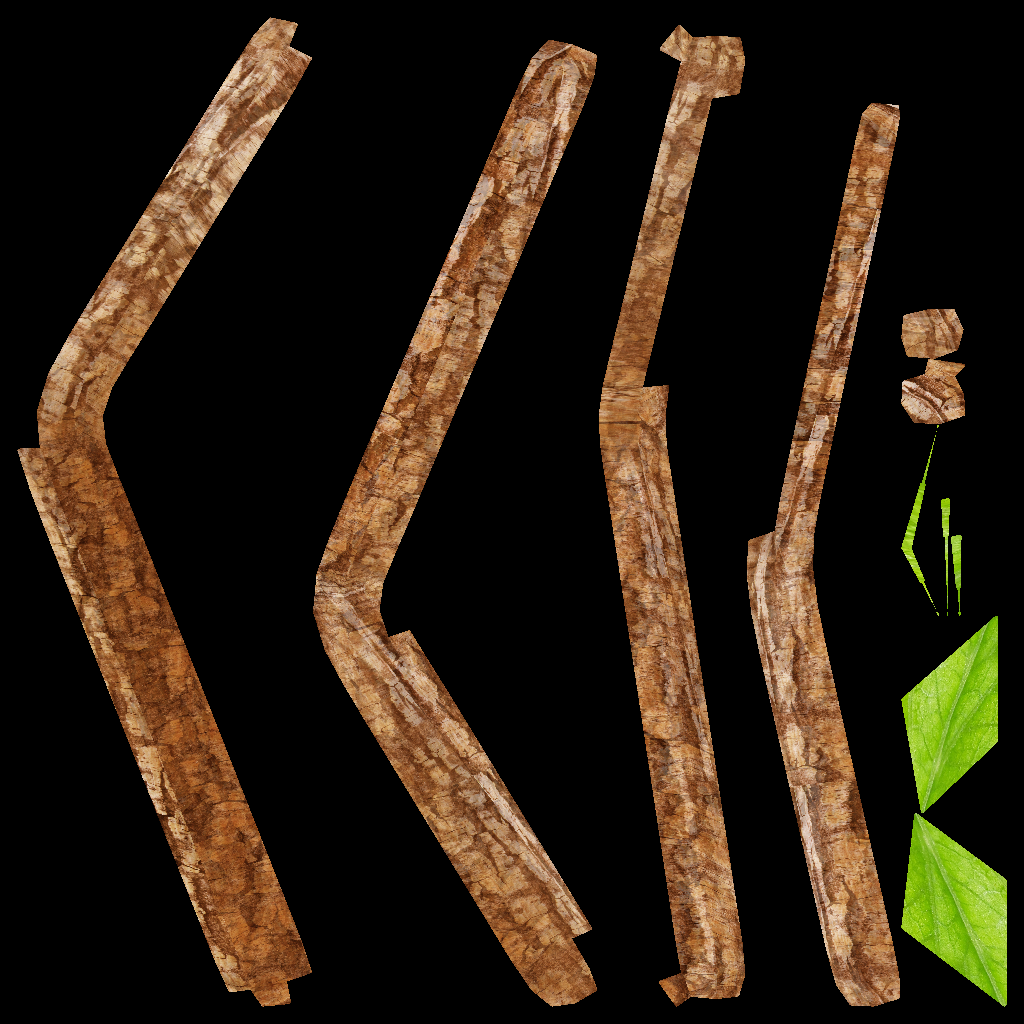
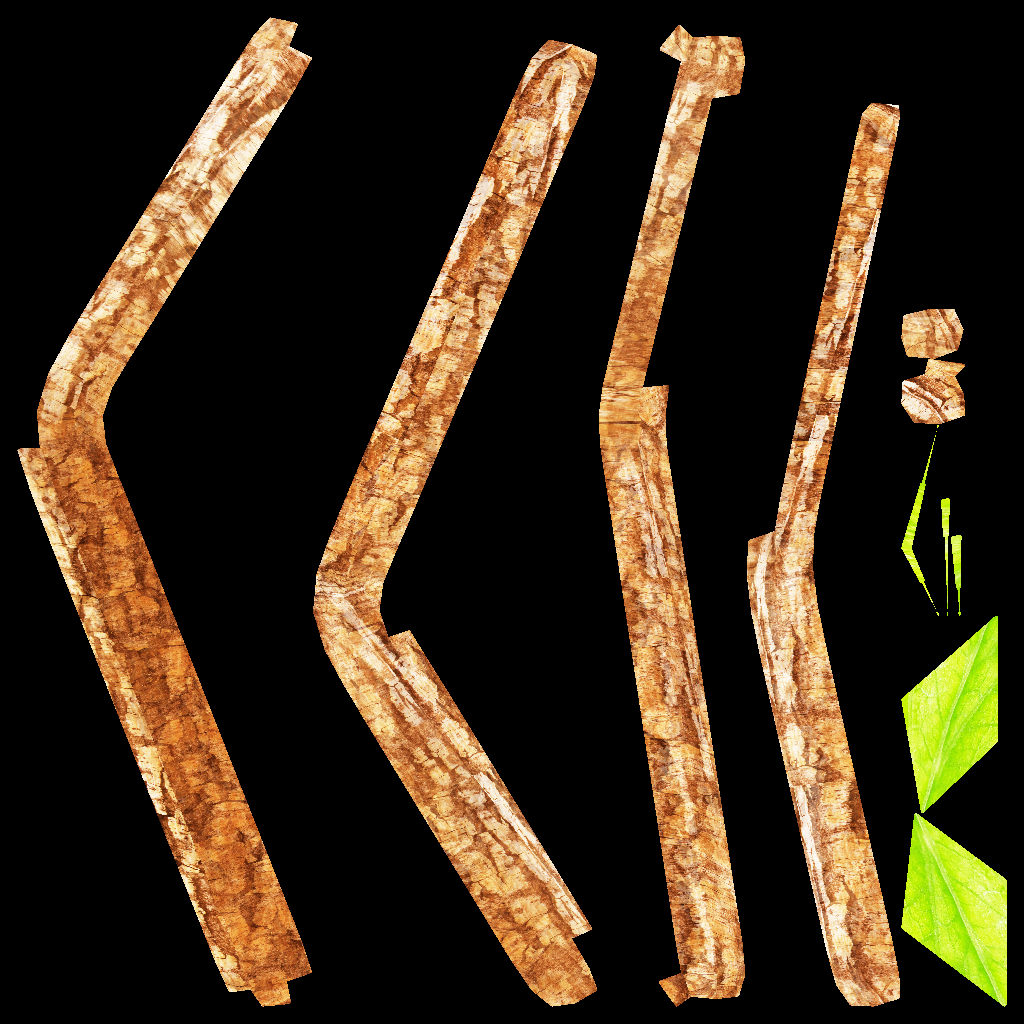
more explosions and some exposure finetuning

diff --git a/multiSceneEffects/EffectExplosion.js b/multiSceneEffects/EffectExplosion.js
@@ -1,4 +1,4 @@
-Demo.prototype.addEffectExplosion = function (particleTexture, startTime, duration, maxDist, amount, posX, posY, posZ, xStartDim, yStartDim, zStartDim, xDim = 0.1, yDim =0.1, zDim = 0.0, xOffset, yOffset, zOffset, blendingMode = "CustomBlending", parentId = "scene") {
+Demo.prototype.addEffectExplosion = function (particleTexture, particleModel, startTime, duration, maxDist, amount, posX, posY, posZ, xStartDim, yStartDim, zStartDim, xDim = 0.1, yDim =0.1, zDim = 0.0, xOffset, yOffset, zOffset, blendingMode = "CustomBlending", parentId = "scene") {
 
   let particles = new Array(amount);
   for (let i = 0; i < particles.length; i++) {
@@ -22,7 +22,7 @@ Demo.prototype.addEffectExplosion = function (particleTexture, startTime, durati
   }
 
 
-  this.loader.addAnimation({
+  let explosionAnimation = {
     "parent": (parentId==="scene") ? undefined:parentId,
     "start": startTime, "duration": duration,
     "image": particleTexture,
@@ -59,5 +59,7 @@ Demo.prototype.addEffectExplosion = function (particleTexture, startTime, durati
         color.b = color.a;
         }
       }
-  });
+    }
+
+  this.loader.addAnimation(explosionAnimation);
 }

diff --git a/sceneSpace/Space.js b/sceneSpace/Space.js
@@ -273,7 +273,9 @@ Demo.prototype.addEffectPlanetExplosion = function (startTime,duration, planetId
         ,"angle": [{"degreesY":i2*45+randomAngle,"degreesZ":i2*45+randomAngle,"degreesX":i2*45+randomAngle}]
       });
  
-      this.addEffectExplosion("sceneCatBattle/tex_temp_cat.png",
+      this.addEffectExplosion(
+        "sceneCatBattle/tex_temp_cat.png",
+        null,
         startTime,2,  // startTime, duration
         115, 15,      // maxDist, amount
         0,0,0,        // posX, posY, posZ
@@ -283,7 +285,9 @@ Demo.prototype.addEffectPlanetExplosion = function (startTime,duration, planetId
         "AdditiveBlending", // blendmode
         "null"+i2+planetId);     // parent
 
-        this.addEffectExplosion("sceneCatBattle/tex_temp_cat.png",
+        this.addEffectExplosion(
+          "sceneCatBattle/tex_temp_cat.png",
+          null,
           startTime,2,  // startTime, duration
           115, 15,          // maxDist, amount
           0,0,0,        // posX, posY, posZ          

diff --git a/sceneTree/Tree.js b/sceneTree/Tree.js
@@ -224,6 +224,7 @@ Demo.prototype.sceneTreeGrow = function () {
   this.addSkysphere();
   this.addEffectGrowingTree();
 
+  /*
   this.loader.addAnimation({
     "light": {
         "type": "Directional",
@@ -237,7 +238,7 @@ Demo.prototype.sceneTreeGrow = function () {
       "x": ()=>-window.camPos[0], "y": ()=>window.camPos[1], "z": ()=>-window.camPos[2]
     }]
   });
-
+*/
 
 
   this.loader.addAnimation({
@@ -250,7 +251,7 @@ Demo.prototype.sceneTreeGrow = function () {
       "r": 1.0, "g": 1.0, "b": 1.0
     }]
     ,"position": [{
-      "x": ()=>window.camPos[0], "y": 5, "z": ()=>window.camPos[2]
+      "x": ()=>window.camPos[0], "y": 7, "z": ()=>window.camPos[2]
     }]
   });
 
@@ -264,6 +265,9 @@ Demo.prototype.sceneTreeGrow = function () {
       "x":0,
       "y":0,
       "z":0
+    }]
+    ,"color": [{
+      "r": 1.0, "g": 1.0, "b": 1.0
     }]
    ,"angle":[{
       "degreesY":0,

diff --git a/sceneEarthHit/earthHit.js b/sceneEarthHit/earthHit.js
@@ -11,9 +11,11 @@ Demo.prototype.sceneEarthHit = function () {
      ,"angle": [{"degreesY":0,"degreesZ":-45,"degreesX":0}]
    });
 
-    this.addEffectExplosion("sceneCatBattle/tex_temp_cat.png",
+    this.addEffectExplosion(
+      "sceneCatBattle/tex_temp_cat.png",
+      null,                   // model
       window.biitti*8,4,  // startTime, duration
-      15, 115,      // maxDist, amount
+      15, 66,      // maxDist, amount, scale
       0,0,0,        // posX, posY, posZ
       0,0,0,        // startDim
       .3,.01,0.3,   // dimX, dimY, dimZ

diff --git a/multiSceneEffects/PostProcess.js b/multiSceneEffects/PostProcess.js
@@ -86,7 +86,10 @@ Demo.prototype.addPostProcess = function (image, bypass) {
           ]
         }
     },
-    {additionalImages: ['multiSceneEffects/lut.png'], shader: {name: 'multiSceneEffects/postProcess.fs'}},
+    {additionalImages: ['multiSceneEffects/lut.png'],
+      shader: {name: 'multiSceneEffects/postProcess.fs', "variable": [
+        {"name":"exposure","value":[()=>Sync.get('PostProc:Exposure')]}
+      ]}},
   ]);
 
   this.loader.addAnimation({

diff --git a/sceneCatBattle/catBattle.js b/sceneCatBattle/catBattle.js
@@ -47,7 +47,9 @@ Demo.prototype.sceneCatBattle = function () {
        ,"scale":[{"uniform3d":10.0}]
       }]);  
 
-      this.addEffectExplosion("sceneCatBattle/tex_temp_cat.png",
+      this.addEffectExplosion(
+      "sceneCatBattle/tex_temp_cat.png", // texture
+      null,                   // model
       (i+4)*window.biitti,2,  // startTime, duration
        115, 100,              // maxDist, amount
       -15,0,2,                // posX, posY, posZ
